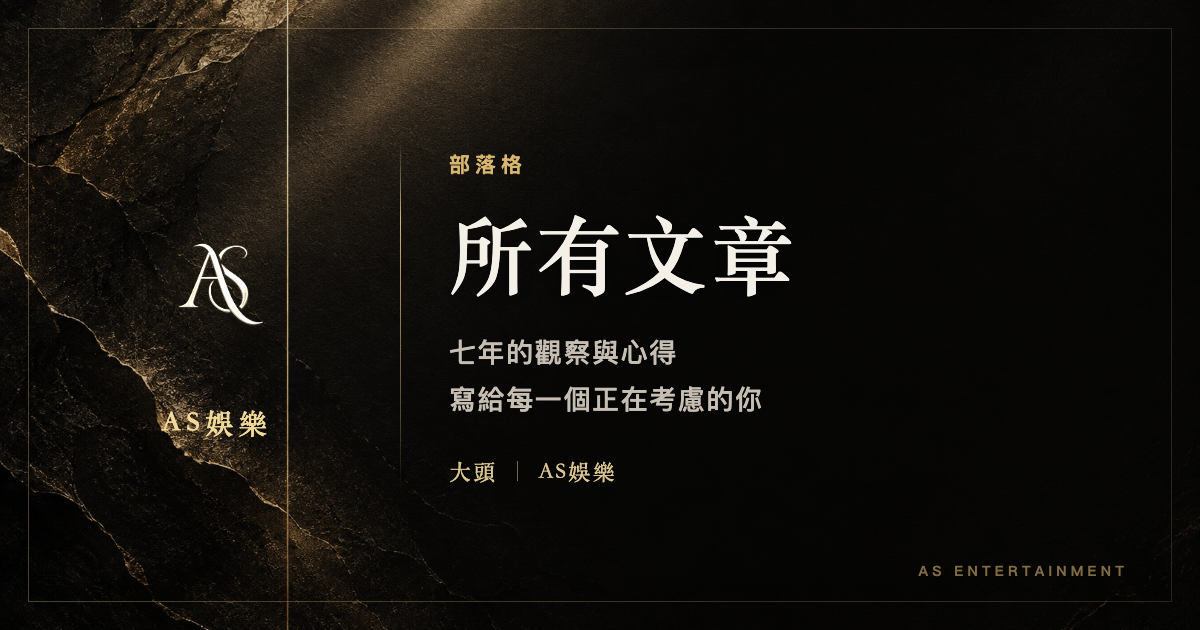
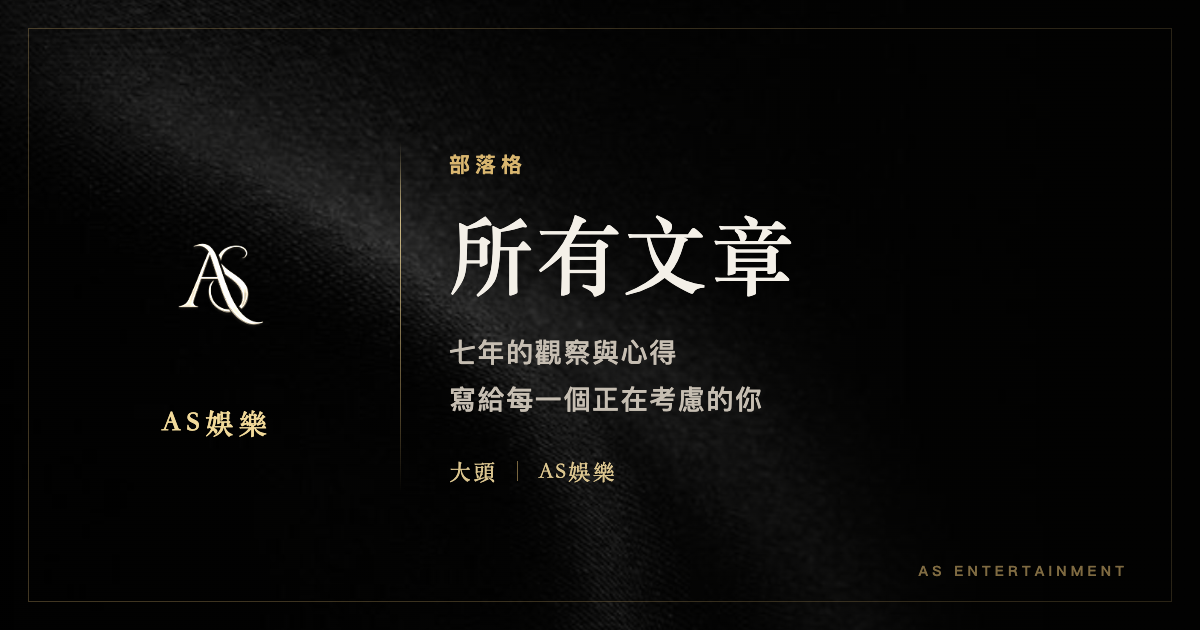
Publish fabric social previews for all pages

diff --git a/tools/time-calculator/index.html b/tools/time-calculator/index.html
@@ -1,0 +1,34 @@
+<!doctype html>
+<html lang="zh-Hant">
+<head>
+  <meta charset="utf-8"><meta name="viewport" content="width=device-width, initial-scale=1"><meta name="theme-color" content="#090909"><title>磁扣時間與薪資試算｜AS娛樂</title>
+  <meta name="description" content="把上下台時間、節數與扣除項目整理清楚，再估算一週大概能拿多少。">
+  <link rel="canonical" href="https://as-ent-tw.com/tools/time-calculator/">
+  <meta property="og:title" content="磁扣時間與薪資試算｜AS娛樂">
+  <meta property="og:description" content="把上下台時間、節數與扣除項目整理清楚，再估算一週大概能拿多少。">
+  <meta property="og:type" content="website">
+  <meta property="og:url" content="https://as-ent-tw.com/tools/time-calculator/">
+  <meta property="og:image" content="https://as-ent-tw.com/assets/og/time-20260912.png?v=20260912-fabric1">
+  <meta property="og:image:width" content="1200">
+  <meta property="og:image:height" content="630">
+  <meta property="og:image:alt" content="AS娛樂 磁扣時間與薪資試算">
+  <meta name="twitter:card" content="summary_large_image">
+  <meta name="twitter:title" content="磁扣時間與薪資試算｜AS娛樂">
+  <meta name="twitter:description" content="把上下台時間、節數與扣除項目整理清楚，再估算一週大概能拿多少。">
+  <meta name="twitter:image" content="https://as-ent-tw.com/assets/og/time-20260912.png?v=20260912-fabric1">
+  <style>
+    :root{--bg:#090909;--panel:#12110f;--line:rgba(211,174,99,.3);--gold:#d9b66c;--cream:#f5eee1;--muted:#9e968b;--green:#45c98a;--red:#df8178}*{box-sizing:border-box}html{background:var(--bg);color:var(--cream);font-family:Arial,"Noto Sans TC",sans-serif}body{margin:0;min-height:100vh;background:radial-gradient(circle at 50% -10%,rgba(201,160,78,.14),transparent 42%),linear-gradient(135deg,#090909,#15120e 55%,#080808);overflow-x:hidden}.wrap{width:min(920px,calc(100% - 32px));margin:auto;padding:26px 0 70px}.top{display:flex;justify-content:space-between;align-items:center;margin-bottom:48px}.brand{display:flex;align-items:center;gap:12px;color:var(--gold);text-decoration:none;font-weight:700;letter-spacing:.12em}.brand img{width:38px;height:38px;object-fit:contain}.back{color:var(--muted);text-decoration:none;font-size:14px}.hero{text-align:center;margin-bottom:32px}.kicker{color:var(--gold);letter-spacing:.25em;font-size:12px;font-weight:700}.hero h1{font-family:Georgia,"Noto Serif TC",serif;font-size:clamp(38px,8vw,68px);line-height:1.1;margin:14px 0 12px;letter-spacing:.08em;background:linear-gradient(120deg,#b98a39,#fff1bd,#c59646);-webkit-background-clip:text;background-clip:text;color:transparent}.hero p{color:var(--muted);line-height:1.8;margin:0}.panel{border:1px solid var(--line);background:rgba(18,17,15,.86);border-radius:10px;padding:30px;box-shadow:0 18px 70px rgba(0,0,0,.24)}.tabs{display:grid;grid-template-columns:1fr 1fr;border-bottom:1px solid rgba(211,174,99,.2);margin:-30px -30px 28px}.tab{padding:18px;border:0;border-bottom:2px solid transparent;background:transparent;color:var(--muted);font:700 15px inherit;cursor:pointer}.tab.active{color:var(--gold);border-color:var(--gold)}.view[hidden]{display:none}.grid{display:grid;grid-template-columns:repeat(2,minmax(0,1fr));gap:18px}.field label{display:block;color:var(--muted);font-size:13px;margin-bottom:7px}.field input{width:100%;border:1px solid rgba(211,174,99,.25);border-radius:5px;background:#0e0d0b;color:var(--cream);padding:13px 14px;font:inherit}.field input:focus{outline:2px solid rgba(211,174,99,.5);outline-offset:1px}.subhead{margin:0 0 14px;font-size:19px}.full{grid-column:1/-1}.checks{display:grid;grid-template-columns:repeat(4,minmax(0,1fr));gap:10px}.check{display:flex;align-items:center;gap:8px;border:1px solid rgba(211,174,99,.18);border-radius:5px;padding:12px;color:var(--muted);font-size:13px}.check input{accent-color:var(--gold)}.button{width:100%;border:1px solid var(--gold);background:linear-gradient(135deg,#d5ae63,#efd28f);color:#171108;border-radius:5px;padding:15px 18px;font:700 16px inherit;cursor:pointer;margin-top:22px}.button.secondary{background:transparent;color:var(--gold);border-color:rgba(211,174,99,.4)}.button:disabled{opacity:.42;cursor:not-allowed}.timer-card{border:1px solid rgba(211,174,99,.2);background:rgba(7,7,6,.42);border-radius:7px;padding:24px;text-align:center}.timer-display{font:600 clamp(38px,10vw,64px)/1 Georgia,serif;letter-spacing:.08em;color:var(--cream)}.timer-status{color:var(--gold);font-size:13px;letter-spacing:.1em;margin-top:8px}.timer-actions{display:grid;grid-template-columns:repeat(3,1fr);gap:10px}.timer-actions .button{margin-top:20px}.uncertain{border:0;background:transparent;color:var(--red);cursor:pointer;font:inherit;font-size:13px;margin-top:18px;padding:8px}.summary{display:grid;grid-template-columns:repeat(3,1fr);gap:10px;margin-top:25px}.metric{border-top:1px solid rgba(211,174,99,.25);padding:16px 4px}.metric span{display:block;color:var(--muted);font-size:12px;margin-bottom:7px}.metric strong{font:600 27px Georgia,"Noto Serif TC",serif;color:var(--gold)}.income{margin-top:25px;border:1px solid rgba(69,201,138,.35);background:linear-gradient(120deg,rgba(69,201,138,.08),rgba(255,255,255,.02));padding:20px;border-radius:7px}.income-row{display:flex;justify-content:space-between;gap:16px;color:var(--muted);padding:7px 0}.income-row strong{color:var(--cream);white-space:nowrap}.income-row.total{border-top:1px solid rgba(69,201,138,.2);margin-top:8px;padding-top:15px;color:var(--green)}.income-row.total strong{font-size:28px;color:#b8f6d2}.note{color:var(--muted);font-size:12px;line-height:1.8;text-align:center;margin:22px 0 0}.line{color:var(--green);text-decoration:none}@media(max-width:650px){.wrap{width:min(100% - 22px,920px);padding-top:18px}.top{margin-bottom:36px}.panel{padding:21px 17px}.tabs{margin:-21px -17px 24px}.grid{grid-template-columns:1fr;gap:15px}.full{grid-column:auto}.checks{grid-template-columns:repeat(2,1fr)}.timer-card{padding:20px 13px}.timer-actions{grid-template-columns:1fr}.timer-actions .button{margin-top:10px}.summary{grid-template-columns:1fr 1fr}.metric:last-child{grid-column:1/-1}.metric strong{font-size:24px}.income-row{align-items:flex-start;font-size:13px}}
+    .timer-actions{grid-template-columns:1fr}.timer-actions .button{min-height:72px;margin-top:10px;font-size:20px}.timer-actions .start{background:linear-gradient(135deg,#d5ae63,#efd28f);border-color:#efd28f;color:#171108}.timer-actions .pause{background:linear-gradient(135deg,#155c3d,#2fa56f);border-color:#45c98a;color:#e6fff0}.timer-actions .end{background:linear-gradient(135deg,#762b2b,#b9514d);border-color:#df8178;color:#fff1ef}.uncertain{border:1px solid rgba(211,174,99,.45);border-radius:5px;color:var(--gold);background:rgba(211,174,99,.08);padding:12px 18px}
+  </style>
+</head>
+<body><main class="wrap"><nav class="top"><a class="brand" href="../../index.html"><img src="../../logo.webp" alt="AS娛樂"><span>AS娛樂</span></a><a class="back" href="../../index.html">回到首頁</a></nav><header class="hero"><div class="kicker">WORK & INCOME</div><h1>磁扣時間與薪資試算</h1><p>把上下台時間、節數與扣除項目整理清楚，再估算一週大概能拿多少。</p></header><section class="panel"><div class="tabs"><button class="tab active" data-tab="time">上下台時間</button><button class="tab" data-tab="income">一週薪資</button></div>
+  <div class="view" id="time"><h2 class="subhead">今天上班多久？</h2><div class="timer-card"><div class="timer-display" id="timerDisplay">00:00:00</div><div class="timer-status" id="timerStatus">尚未開始</div><div class="timer-actions"><button class="button start" id="startTimer">上台</button><button class="button pause" id="pauseTimer" disabled>下台</button><button class="button end" id="endTimer" disabled>結束計時</button></div><button class="uncertain" id="uncertainTimer">不確定今天的時間</button></div><div class="summary" id="timeResult"><div class="metric"><span>累計工作時間</span><strong>0 分鐘</strong></div><div class="metric"><span>約幾節</span><strong>0 節</strong></div><div class="metric"><span>計算方式</span><strong>10 分鐘／節</strong></div></div><p class="note" id="timerNote">按下「上台」開始，按「下台」暫停，最後按「結束計時」。</p></div>
+  <div class="view" id="income" hidden><h2 class="subhead">一週大概實拿多少？</h2><div class="grid week-grid"><div class="field"><label for="mon">週一節數</label><input class="day-sections" id="mon" type="number" min="0" value="0"></div><div class="field"><label for="tue">週二節數</label><input class="day-sections" id="tue" type="number" min="0" value="0"></div><div class="field"><label for="wed">週三節數</label><input class="day-sections" id="wed" type="number" min="0" value="0"></div><div class="field"><label for="thu">週四節數</label><input class="day-sections" id="thu" type="number" min="0" value="0"></div><div class="field"><label for="fri">週五節數</label><input class="day-sections" id="fri" type="number" min="0" value="0"></div><div class="field"><label for="sat">週六節數</label><input class="day-sections" id="sat" type="number" min="0" value="0"></div><div class="field"><label for="sun">週日節數</label><input class="day-sections" id="sun" type="number" min="0" value="48"></div><div class="field"><label for="rate">每節薪資（自己填）</label><input id="rate" type="number" min="0" value="250"></div><div class="field"><label for="cleaning">清潔費</label><input id="cleaning" type="number" min="0" value="0"></div><div class="field"><label for="tax">稅金</label><input id="tax" type="number" min="0" value="0"></div><div class="field"><label for="other">其他費用（髮妝、櫃子等）</label><input id="other" type="number" min="0" value="0"></div></div><button class="button" id="calcIncome">試算一週收入</button><div class="income" id="incomeResult"><div class="income-row"><span>一週總節數</span><strong>48 節</strong></div><div class="income-row"><span>原始收入</span><strong>12,000 元</strong></div><div class="income-row"><span>預估扣除</span><strong>0 元</strong></div><div class="income-row total"><span>預估實拿</span><strong>12,000 元</strong></div></div></div><p class="note">這是自行輸入的估算工具，實際薪資依店家、班別與當週狀況為準。想確認適合自己的安排，可以直接<a class="line" href="../../contact.html">來問我</a>。</p></section></main>
+  <script>
+    const $=id=>document.getElementById(id), money=n=>Math.round(n).toLocaleString('zh-TW');
+    function selectTab(name){const target=name==='income'?'income':'time';document.querySelectorAll('.tab').forEach(tab=>tab.classList.toggle('active',tab.dataset.tab===target));document.querySelectorAll('.view').forEach(view=>view.hidden=view.id!==target)}
+    document.querySelectorAll('.tab').forEach(tab=>tab.onclick=()=>selectTab(tab.dataset.tab));selectTab(new URLSearchParams(location.search).get('view'));
+    function minutes(v){const [h,m]=v.split(':').map(Number);return h*60+m}
+    let timer=null,startedAt=0,elapsed=0,running=false,uncertain=false,finished=false;const timerKey='as-time-calculator';function saveTimer(){localStorage.setItem(timerKey,JSON.stringify({startedAt,elapsed,running,uncertain,finished,savedAt:Date.now()}))}function loadTimer(){try{const saved=JSON.parse(localStorage.getItem(timerKey)||'null');if(!saved)return;startedAt=saved.startedAt||0;elapsed=saved.elapsed||0;running=!!saved.running;uncertain=!!saved.uncertain;finished=!!saved.finished;if(running){$('timerStatus').textContent='計時中';$('startTimer').textContent='上台';$('pauseTimer').disabled=false;$('endTimer').disabled=false;timer=setInterval(drawTimer,1000)}else if(finished){$('timerStatus').textContent=uncertain?'時間不確定':'已結束計時';$('startTimer').disabled=true;$('pauseTimer').disabled=true;$('endTimer').disabled=true}else if(elapsed){$('timerStatus').textContent='已下台，可繼續計時';$('startTimer').textContent='上台';$('pauseTimer').disabled=false;$('endTimer').disabled=false}}catch(e){localStorage.removeItem(timerKey)}}function drawTimer(){const total=Math.floor((elapsed+(running?Date.now()-startedAt:0))/1000),h=String(Math.floor(total/3600)).padStart(2,'0'),m=String(Math.floor(total%3600/60)).padStart(2,'0'),s=String(total%60).padStart(2,'0');$('timerDisplay').textContent=`${h}:${m}:${s}`;const mins=Math.floor(total/60);$('timeResult').innerHTML=`<div class="metric"><span>累計工作時間</span><strong>${mins} 分鐘</strong></div><div class="metric"><span>約幾節</span><strong>${Math.floor(mins/10)} 節</strong></div><div class="metric"><span>計算方式</span><strong>10 分鐘／節</strong></div>`}function stopTimer(){if(running){elapsed+=Date.now()-startedAt;running=false}clearInterval(timer);timer=null;saveTimer();drawTimer()}$('startTimer').onclick=()=>{if(!running&&!finished){startedAt=Date.now();running=true;uncertain=false;$('timerStatus').textContent='計時中';$('startTimer').textContent='上台';$('pauseTimer').disabled=false;$('endTimer').disabled=false;timer=setInterval(drawTimer,1000);saveTimer();drawTimer()}};$('pauseTimer').onclick=()=>{stopTimer();$('timerStatus').textContent='已下台，可繼續計時'};$('endTimer').onclick=()=>{stopTimer();finished=true;$('timerStatus').textContent='已結束計時';$('startTimer').disabled=true;$('pauseTimer').disabled=true;$('endTimer').disabled=true;$('timerNote').textContent='已完成本次記錄，10 分鐘算 1 節。';saveTimer()};$('uncertainTimer').onclick=()=>{stopTimer();uncertain=true;finished=true;$('timerStatus').textContent='時間不確定';$('timerNote').textContent='如果不確定，先記下來，之後可以直接來問我確認。';$('startTimer').disabled=true;$('pauseTimer').disabled=true;$('endTimer').disabled=true;saveTimer()};loadTimer();drawTimer();
+    $('calcIncome').onclick=()=>{const sections=[...document.querySelectorAll('.day-sections')].reduce((sum,input)=>sum+Math.max(0,Number(input.value)||0),0),rate=Math.max(0,Number($('rate').value)||0),clean=Math.max(0,Number($('cleaning').value)||0),tax=Math.max(0,Number($('tax').value)||0),other=Math.max(0,Number($('other').value)||0),gross=sections*rate,totalDeduction=tax+clean+other,net=gross-totalDeduction;$('incomeResult').innerHTML=`<div class="income-row"><span>一週總節數</span><strong>${sections} 節</strong></div><div class="income-row"><span>原始收入（${sections} 節 × ${money(rate)} 元）</span><strong>${money(gross)} 元</strong></div><div class="income-row"><span>預估扣除</span><strong>− ${money(totalDeduction)} 元</strong></div><div class="income-row total"><span>預估實拿</span><strong>${money(net)} 元</strong></div>`};
+  </script></body></html>

diff --git a/tools/alias-generator/index.html b/tools/alias-generator/index.html
@@ -1,0 +1,48 @@
+<!doctype html>
+<html lang="zh-Hant">
+<head>
+  <meta charset="utf-8">
+  <meta name="viewport" content="width=device-width, initial-scale=1">
+  <meta name="theme-color" content="#090909">
+  <title>藝名神器｜AS娛樂</title>
+  <meta name="description" content="選幾個符合妳的標籤，讓名字先替妳說出第一印象。">
+  <link rel="canonical" href="https://as-ent-tw.com/tools/alias-generator/">
+  <meta property="og:title" content="藝名神器｜AS娛樂">
+  <meta property="og:description" content="選幾個符合妳的標籤，讓名字先替妳說出第一印象。">
+  <meta property="og:type" content="website">
+  <meta property="og:url" content="https://as-ent-tw.com/tools/alias-generator/">
+  <meta property="og:image" content="https://as-ent-tw.com/assets/og/alias-20260912.png?v=20260912-fabric1">
+  <meta property="og:image:width" content="1200">
+  <meta property="og:image:height" content="630">
+  <meta property="og:image:alt" content="AS娛樂 藝名神器">
+  <meta name="twitter:card" content="summary_large_image">
+  <meta name="twitter:title" content="藝名神器｜AS娛樂">
+  <meta name="twitter:description" content="選幾個符合妳的標籤，讓名字先替妳說出第一印象。">
+  <meta name="twitter:image" content="https://as-ent-tw.com/assets/og/alias-20260912.png?v=20260912-fabric1">
+  <style>
+    :root{--bg:#090909;--panel:#12110f;--panel2:#181613;--line:rgba(211,174,99,.3);--gold:#d9b66c;--cream:#f5eee1;--muted:#9e968b;--green:#45c98a}
+    *{box-sizing:border-box}html{background:var(--bg);color:var(--cream);font-family:Arial,"Noto Sans TC",sans-serif}body{margin:0;min-height:100vh;background:radial-gradient(circle at 50% -10%,rgba(201,160,78,.14),transparent 42%),linear-gradient(135deg,#090909,#15120e 55%,#080808);overflow-x:hidden}.wrap{width:min(820px,calc(100% - 32px));margin:auto;padding:26px 0 70px}.top{display:flex;justify-content:space-between;align-items:center;margin-bottom:48px}.brand{display:flex;align-items:center;gap:12px;color:var(--gold);text-decoration:none;font-weight:700;letter-spacing:.12em}.brand img{width:38px;height:38px;object-fit:contain}.back{color:var(--muted);text-decoration:none;font-size:14px}.back:hover{color:var(--gold)}.hero{text-align:center;margin-bottom:32px}.kicker{color:var(--gold);letter-spacing:.28em;font-size:12px;font-weight:700}.hero h1{font-family:Georgia,"Noto Serif TC",serif;font-size:clamp(42px,9vw,76px);line-height:1.08;margin:14px 0 12px;letter-spacing:.08em;background:linear-gradient(120deg,#b98a39,#fff1bd,#c59646);-webkit-background-clip:text;background-clip:text;color:transparent}.hero p{color:var(--muted);margin:0;line-height:1.8}.panel{border:1px solid var(--line);background:rgba(18,17,15,.82);border-radius:10px;padding:30px;box-shadow:0 18px 70px rgba(0,0,0,.24)}.section{padding:4px 0 28px;border-bottom:1px solid rgba(211,174,99,.14);margin-bottom:26px}.section:last-of-type{border-bottom:0;margin-bottom:0;padding-bottom:0}.section-head{display:flex;align-items:baseline;gap:10px;margin-bottom:16px}.section-number{color:var(--gold);font-size:12px;letter-spacing:.18em}.section h2{font-size:20px;margin:0}.hint{color:var(--muted);font-size:13px}.chips{display:flex;flex-wrap:wrap;gap:10px}.chip{border:1px solid rgba(211,174,99,.25);background:#171614;color:#c9c0b3;border-radius:999px;padding:11px 18px;font:inherit;cursor:pointer;transition:.2s}.chip:hover,.chip.selected{border-color:var(--gold);color:#1b1408;background:var(--gold);box-shadow:0 5px 18px rgba(211,174,99,.12)}.actions{display:flex;gap:12px;margin-top:30px}.button{flex:1;border:1px solid var(--gold);background:linear-gradient(135deg,#d5ae63,#efd28f);color:#171108;border-radius:5px;padding:15px 18px;font:700 16px inherit;cursor:pointer}.button.secondary{background:transparent;color:var(--gold);border-color:rgba(211,174,99,.4)}.results{margin-top:28px;display:grid;gap:10px}.result{display:flex;align-items:center;justify-content:space-between;border:1px solid rgba(211,174,99,.22);background:linear-gradient(110deg,rgba(211,174,99,.08),rgba(255,255,255,.02));padding:17px 18px;border-radius:7px}.result strong{font:600 24px Georgia,"Noto Serif TC",serif;color:var(--cream);letter-spacing:.12em}.copy{background:transparent;color:var(--gold);border:0;cursor:pointer;font-size:13px}.notice{color:var(--muted);font-size:12px;text-align:center;margin:22px 0 0}.line{color:var(--green);text-decoration:none}.toast{position:fixed;left:50%;bottom:22px;transform:translate(-50%,20px);opacity:0;background:#1d3027;color:#d7ffeb;border:1px solid rgba(69,201,138,.5);padding:10px 15px;border-radius:6px;transition:.2s}.toast.show{opacity:1;transform:translate(-50%,0)}@media(max-width:560px){.wrap{width:min(100% - 22px,820px);padding-top:18px}.top{margin-bottom:36px}.panel{padding:21px 17px}.actions{flex-direction:column}.chip{padding:10px 14px}.result strong{font-size:21px}}
+    .result{justify-content:center}.result-controls{display:grid;grid-template-columns:1fr 1fr;gap:10px;margin-top:10px}.result-controls .button{margin:0}.toast{display:none}@media(max-width:560px){.result-controls{grid-template-columns:1fr}}
+  </style>
+</head>
+<body>
+  <main class="wrap">
+    <nav class="top"><a class="brand" href="../../index.html"><img src="../../logo.webp" alt="AS娛樂"><span>AS娛樂</span></a><a class="back" href="../../index.html">回到首頁</a></nav>
+    <header class="hero"><div class="kicker">FIND YOUR NAME</div><h1>藝名神器</h1><p>選幾個符合妳的標籤，讓名字先替妳說出第一印象。</p></header>
+    <section class="panel">
+      <div class="section"><div class="section-head"><span class="section-number">01</span><h2>字數與格式</h2><span class="hint">可選可不選</span></div><div class="chips" data-group="length"><button class="chip" data-value="two">雙字名</button><button class="chip" data-value="all">都可以</button></div></div>
+      <div class="section"><div class="section-head"><span class="section-number">02</span><h2>風格與派系</h2><span class="hint">可選可不選</span></div><div class="chips" data-group="style"><button class="chip" data-value="korean">韓系</button><button class="chip" data-value="japanese">日系</button><button class="chip" data-value="classic">中式古風</button><button class="chip" data-value="western">洋氣英文</button><button class="chip" data-value="elegant-style">優雅氣質</button><button class="chip" data-value="cool-style">冷艷俐落</button><button class="chip" data-value="sweet-style">甜美可愛</button><button class="chip" data-value="all">都可以</button></div></div>
+      <div class="section"><div class="section-head"><span class="section-number">03</span><h2>人設與氣質</h2><span class="hint">可選可不選</span></div><div class="chips" data-group="mood"><button class="chip" data-value="elegant">御姐</button><button class="chip" data-value="neighbor">鄰家女孩</button><button class="chip" data-value="rich">千金大小姐</button><button class="chip" data-value="pure">純欲系</button><button class="chip" data-value="cool">高冷女王</button><button class="chip" data-value="sweet">甜美</button><button class="chip" data-value="mysterious">神秘感</button><button class="chip" data-value="independent">獨立大方</button><button class="chip" data-value="gentle">溫柔知性</button><button class="chip" data-value="playful">靈動俏皮</button><button class="chip" data-value="all">都可以</button></div></div>
+      <div class="actions"><button class="button" id="generate">生成我的藝名</button></div>
+      <div class="results" id="results" hidden></div><p class="notice">名字只是開始，想知道哪種工作適合妳，可以直接<a class="line" href="../../contact.html">來問我</a>。</p>
+    </section>
+  </main><div class="toast" id="toast">已複製</div>
+  <script>
+    const data={two:['恩妍','妍恩','若晴','沐妍','語希','安妮','宛庭','心妤','芷晴','語柔','沐恩','采薇','知妍','晚晴','若棠','知微'],korean:['恩妍','妍希','語恩','知妍','瑞妍','恩彩','宥真','恩娜','智妍','彩恩'],japanese:['凜花','千夏','美月','優奈','結衣','葵','琴音','莉央','花音','真希'],classic:['若棠','知微','晚晴','清妤','昭寧','芷蘭','靜姝','若蘭','知秋','月棠'],western:['Annie','Mia','Nina','Luna','Chloe','Ivy','Stella','Ava','Ella','Sophie','Bella','Grace'],elegant:['若棠','知妍','晚晴','靜姝','芷蘭','清妤','月棠'],neighbor:['安安','妍妍','語希','柔柔','恩恩','采薇','晴晴'],rich:['宛庭','心妤','沐恩','采薇','知妍','若棠'],pure:['恩妍','語安','若晴','妍希','晚晴','語柔'],cool:['凜花','知微','沐妍','昭寧','芷晴','靜姝'],sweet:['晴晴','妮妮','妍希','語柔','糖糖','安安'],mysterious:['知微','凜花','晚晴','靜姝','若棠','月棠'],independent:['采薇','知秋','若棠','芷晴','語安'],gentle:['語柔','心妤','恩妍','晚晴','知妍'],playful:['晴晴','妮妮','安安','妍妍','花音'],'elegant-style':['若棠','知妍','晚晴','靜姝','芷蘭','清妤'],'cool-style':['凜花','知微','昭寧','靜姝','芷晴'],'sweet-style':['晴晴','妮妮','妍希','語柔','安安']};
+    const state={};document.querySelectorAll('.chips').forEach(group=>group.addEventListener('click',e=>{const b=e.target.closest('.chip');if(!b)return;group.querySelectorAll('.chip').forEach(x=>x.classList.remove('selected'));b.classList.add('selected');state[group.dataset.group]=b.dataset.value}));
+    function pick(){if(state.style==='western')return [...data.western].sort(()=>Math.random()-.5).slice(0,8);let pool=[];Object.values(state).forEach(v=>{if(data[v]&&v!=='all')pool.push(...data[v])});if(!pool.length)pool=[...data.two,...data.korean,...data.japanese,...data.classic];return [...new Set(pool)].sort(()=>Math.random()-.5).slice(0,8)}
+    function reset(){document.querySelectorAll('.chip').forEach(x=>x.classList.remove('selected'));Object.keys(state).forEach(x=>delete state[x]);const box=document.getElementById('results');box.innerHTML='';box.hidden=true}
+    document.getElementById('generate').onclick=()=>{const box=document.getElementById('results');box.hidden=false;box.innerHTML=pick().map(x=>`<div class="result"><strong>${x}</strong></div>`).join('')+'<div class="result-controls"><button class="button" id="more">查看更多</button><button class="button secondary" id="bottomReset">重新選擇</button></div>';box.scrollIntoView({behavior:'smooth',block:'nearest'})};
+    document.getElementById('results').onclick=e=>{if(e.target.id==='more'){const box=document.getElementById('results');box.innerHTML=pick().map(x=>`<div class="result"><strong>${x}</strong></div>`).join('')+'<div class="result-controls"><button class="button" id="more">查看更多</button><button class="button secondary" id="bottomReset">重新選擇</button></div>'}if(e.target.id==='bottomReset')reset()};
+  </script>
+</body></html>

diff --git a/post.html b/post.html
@@ -16,14 +16,14 @@
   <meta property="og:description" content="酒店公關入行知識、薪資、面試流程與工作建議。"/>
   <meta property="og:type" content="article"/>
   <meta property="og:url" content="https://as-ent-tw.com/post"/>
-  <meta property="og:image" content="https://as-ent-tw.com/assets/og/blog-20260912.png?v=20260912"/>
+  <meta property="og:image" content="https://as-ent-tw.com/assets/og/blog-20260912.png?v=20260912-fabric1"/>
   <meta property="og:image:width" content="1200"/>
   <meta property="og:image:height" content="630"/>
   <meta property="og:image:alt" content="AS娛樂 八大知識文章"/>
   <meta name="twitter:card" content="summary_large_image"/>
   <meta name="twitter:title" content="酒店公關文章｜AS娛樂 大頭"/>
   <meta name="twitter:description" content="酒店公關入行知識、薪資、面試流程與工作建議。"/>
-  <meta name="twitter:image" content="https://as-ent-tw.com/assets/og/blog-20260912.png?v=20260912"/>
+  <meta name="twitter:image" content="https://as-ent-tw.com/assets/og/blog-20260912.png?v=20260912-fabric1"/>
   <link rel="alternate" hreflang="zh-TW" href="https://as-ent-tw.com/post"/>
   <link rel="alternate" hreflang="x-default" href="https://as-ent-tw.com/post"/>
   <link rel="preconnect" href="https://fonts.googleapis.com"/>
@@ -544,9 +544,9 @@
     if (element) element.setAttribute('content', content);
   }
   function absoluteAssetUrl(url) {
-    if (!url) return 'https://as-ent-tw.com/assets/og/blog-20260912.png?v=20260912';
+    if (!url) return 'https://as-ent-tw.com/assets/og/blog-20260912.png?v=20260912-fabric1';
     try { return new URL(url, 'https://as-ent-tw.com/').href; }
-    catch { return 'https://as-ent-tw.com/assets/og/blog-20260912.png?v=20260912'; }
+    catch { return 'https://as-ent-tw.com/assets/og/blog-20260912.png?v=20260912-fabric1'; }
   }
   function getPostUrl(slug, absolute = false) {
     const path = `/post/${encodeURIComponent(String(slug))}`;

diff --git a/blog.html b/blog.html
@@ -16,14 +16,14 @@
   <meta property="og:description" content="AS娛樂大頭的部落格，分享酒店公關入行、面試、薪資、排班與隱私安全等真實經驗，幫助想增加收入的女生先了解工作再做決定。"/>
   <meta property="og:type" content="website"/>
   <meta property="og:url" content="https://as-ent-tw.com/blog"/>
-  <meta property="og:image" content="https://as-ent-tw.com/assets/og/blog-20260912.png?v=20260912"/>
+  <meta property="og:image" content="https://as-ent-tw.com/assets/og/blog-20260912.png?v=20260912-fabric1"/>
   <meta property="og:image:width" content="1200"/>
   <meta property="og:image:height" content="630"/>
   <meta property="og:image:alt" content="AS娛樂 八大知識與部落格文章"/>
   <meta name="twitter:card" content="summary_large_image"/>
   <meta name="twitter:title" content="酒店公關部落格｜AS娛樂 大頭"/>
   <meta name="twitter:description" content="AS娛樂大頭的部落格，分享酒店公關入行、面試、薪資、排班與隱私安全等真實經驗，幫助想增加收入的女生先了解工作再做決定。"/>
-  <meta name="twitter:image" content="https://as-ent-tw.com/assets/og/blog-20260912.png?v=20260912"/>
+  <meta name="twitter:image" content="https://as-ent-tw.com/assets/og/blog-20260912.png?v=20260912-fabric1"/>
   <link rel="preconnect" href="https://fonts.googleapis.com"/>
   <link rel="preconnect" href="https://fonts.gstatic.com" crossorigin/>
   <link href="https://fonts.googleapis.com/css2?family=Noto+Sans+TC:wght@400;700;900&family=Noto+Serif+TC:wght@400;500;700&display=swap" rel="stylesheet"/>

diff --git a/privacy.html b/privacy.html
@@ -8,6 +8,18 @@
   <title>隱私權政策｜AS娛樂</title>
   <meta name="description" content="AS娛樂網站隱私權政策，說明網站資料蒐集、使用方式、第三方服務與聯絡管道。" />
   <link rel="canonical" href="https://as-ent-tw.com/privacy" />
+  <meta property="og:title" content="隱私權政策｜AS娛樂" />
+  <meta property="og:description" content="AS娛樂網站隱私權政策，說明網站資料蒐集、使用方式、第三方服務與聯絡管道。" />
+  <meta property="og:type" content="website" />
+  <meta property="og:url" content="https://as-ent-tw.com/privacy" />
+  <meta property="og:image" content="https://as-ent-tw.com/assets/og/privacy-20260912.png?v=20260912-fabric1" />
+  <meta property="og:image:width" content="1200" />
+  <meta property="og:image:height" content="630" />
+  <meta property="og:image:alt" content="AS娛樂 隱私權政策" />
+  <meta name="twitter:card" content="summary_large_image" />
+  <meta name="twitter:title" content="隱私權政策｜AS娛樂" />
+  <meta name="twitter:description" content="AS娛樂網站隱私權政策，說明網站資料蒐集、使用方式、第三方服務與聯絡管道。" />
+  <meta name="twitter:image" content="https://as-ent-tw.com/assets/og/privacy-20260912.png?v=20260912-fabric1" />
   <link rel="icon" href="/logo.webp?v=20260604-logo2" type="image/webp" />
   <link rel="preconnect" href="https://fonts.googleapis.com" />
   <link rel="preconnect" href="https://fonts.gstatic.com" crossorigin />

diff --git a/work-landing.html b/work-landing.html
@@ -11,7 +11,15 @@
   <meta property="og:title" content="先詢問再決定｜酒店公關・美容師職缺" />
   <meta property="og:description" content="兩種工作方向先了解。不簽約、不壓薪水，問清楚再決定。" />
   <meta property="og:type" content="website" />
-  <meta property="og:image" content="https://as-ent-tw.com/beauty_exports/beauty_ad_4x5_1080x1350_full.png" />
+  <meta property="og:url" content="https://as-ent-tw.com/work-landing" />
+  <meta property="og:image" content="https://as-ent-tw.com/assets/og/work-20260912.png?v=20260912-fabric1" />
+  <meta property="og:image:width" content="1200" />
+  <meta property="og:image:height" content="630" />
+  <meta property="og:image:alt" content="AS娛樂 酒店公關與紓壓按摩美容師職缺" />
+  <meta name="twitter:card" content="summary_large_image" />
+  <meta name="twitter:title" content="先詢問再決定｜酒店公關・美容師職缺" />
+  <meta name="twitter:description" content="兩種工作方向先了解。不簽約、不壓薪水，問清楚再決定。" />
+  <meta name="twitter:image" content="https://as-ent-tw.com/assets/og/work-20260912.png?v=20260912-fabric1" />
   <link rel="preconnect" href="https://fonts.googleapis.com" />
   <link rel="preconnect" href="https://fonts.gstatic.com" crossorigin />
   <link href="https://fonts.googleapis.com/css2?family=Noto+Sans+TC:wght@400;500;700;900&family=Noto+Serif+TC:wght@500;700;900&display=swap" rel="stylesheet" />

diff --git a/brand-old/index.html b/brand-old/index.html
@@ -13,14 +13,14 @@
   <meta property="og:description" content="無經驗可、彈性兼職、自由排班。想先了解薪資、內容與安全，可以直接加 LINE 詢問。" />
   <meta property="og:type" content="website" />
   <meta property="og:url" content="https://as-ent-tw.com/brand-old/" />
-  <meta property="og:image" content="https://as-ent-tw.com/assets/og/home-20260912.png?v=20260912" />
+  <meta property="og:image" content="https://as-ent-tw.com/assets/og/work-20260912.png?v=20260912-fabric1" />
   <meta property="og:image:width" content="1200" />
   <meta property="og:image:height" content="630" />
   <meta property="og:image:alt" content="AS娛樂｜美容師工作詢問" />
   <meta name="twitter:card" content="summary_large_image" />
   <meta name="twitter:title" content="AS娛樂｜美容師工作詢問" />
   <meta name="twitter:description" content="無經驗可、彈性兼職、自由排班。想先了解薪資、內容與安全，可以直接加 LINE 詢問。" />
-  <meta name="twitter:image" content="https://as-ent-tw.com/assets/og/home-20260912.png?v=20260912" />
+  <meta name="twitter:image" content="https://as-ent-tw.com/assets/og/work-20260912.png?v=20260912-fabric1" />
   <link rel="alternate" hreflang="zh-TW" href="https://as-ent-tw.com/brand-old/" />
   <link rel="alternate" hreflang="x-default" href="https://as-ent-tw.com/brand-old/" />
   <link rel="icon" href="../logo.webp?v=20260604-logo2" type="image/webp" />

diff --git a/disclaimer.html b/disclaimer.html
@@ -8,6 +8,18 @@
   <title>網站聲明｜AS娛樂</title>
   <meta name="description" content="AS娛樂網站使用聲明、薪資試算聲明、年齡限制與外部連結說明。" />
   <link rel="canonical" href="https://as-ent-tw.com/disclaimer" />
+  <meta property="og:title" content="網站聲明｜AS娛樂" />
+  <meta property="og:description" content="AS娛樂網站使用聲明、薪資試算聲明、年齡限制與外部連結說明。" />
+  <meta property="og:type" content="website" />
+  <meta property="og:url" content="https://as-ent-tw.com/disclaimer" />
+  <meta property="og:image" content="https://as-ent-tw.com/assets/og/disclaimer-20260912.png?v=20260912-fabric1" />
+  <meta property="og:image:width" content="1200" />
+  <meta property="og:image:height" content="630" />
+  <meta property="og:image:alt" content="AS娛樂 網站聲明" />
+  <meta name="twitter:card" content="summary_large_image" />
+  <meta name="twitter:title" content="網站聲明｜AS娛樂" />
+  <meta name="twitter:description" content="AS娛樂網站使用聲明、薪資試算聲明、年齡限制與外部連結說明。" />
+  <meta name="twitter:image" content="https://as-ent-tw.com/assets/og/disclaimer-20260912.png?v=20260912-fabric1" />
   <link rel="icon" href="/logo.webp?v=20260604-logo2" type="image/webp" />
   <link rel="preconnect" href="https://fonts.googleapis.com" />
   <link rel="preconnect" href="https://fonts.gstatic.com" crossorigin />

diff --git a/index.html b/index.html
@@ -15,14 +15,14 @@
   <meta property="og:description" content="先把資訊與擔心的事了解清楚，再決定下一步要不要聊。"/>
   <meta property="og:type" content="website"/>
   <meta property="og:url" content="https://as-ent-tw.com/"/>
-  <meta property="og:image" content="https://as-ent-tw.com/assets/og/home-20260912.png?v=20260912"/>
+  <meta property="og:image" content="https://as-ent-tw.com/assets/og/home-20260912.png?v=20260912-fabric1"/>
   <meta property="og:image:width" content="1200"/>
   <meta property="og:image:height" content="630"/>
   <meta property="og:image:alt" content="AS娛樂 大頭 八大最誠實經紀人 不要讓未來的你討厭現在的自己"/>
   <meta name="twitter:card" content="summary_large_image"/>
   <meta name="twitter:title" content="AS娛樂｜大頭・八大最誠實經紀人"/>
   <meta name="twitter:description" content="先把資訊與擔心的事了解清楚，再決定下一步要不要聊。"/>
-  <meta name="twitter:image" content="https://as-ent-tw.com/assets/og/home-20260912.png?v=20260912"/>
+  <meta name="twitter:image" content="https://as-ent-tw.com/assets/og/home-20260912.png?v=20260912-fabric1"/>
   <link rel="alternate" hreflang="zh-TW" href="https://as-ent-tw.com/"/>
   <link rel="alternate" hreflang="x-default" href="https://as-ent-tw.com/"/>
   <link rel="preconnect" href="https://fonts.googleapis.com"/>

diff --git a/highlights/index.html b/highlights/index.html
@@ -11,14 +11,14 @@
   <meta property="og:description" content="AS娛樂公關真實心得與精選紀錄，整理匿名對話、薪資回饋與實際工作經驗，讓想了解酒店公關工作的人先看真實分享。">
   <meta property="og:type" content="website">
   <meta property="og:url" content="https://as-ent-tw.com/highlights/">
-  <meta property="og:image" content="https://as-ent-tw.com/assets/og/home-20260912.png?v=20260912">
+  <meta property="og:image" content="https://as-ent-tw.com/assets/og/highlights-20260912.png?v=20260912-fabric1">
   <meta property="og:image:width" content="1200">
   <meta property="og:image:height" content="630">
   <meta property="og:image:alt" content="AS娛樂公關真實心得與精選紀錄">
   <meta name="twitter:card" content="summary_large_image">
   <meta name="twitter:title" content="公關真實心得｜AS娛樂">
   <meta name="twitter:description" content="AS娛樂公關真實心得與精選紀錄，整理匿名對話、薪資回饋與實際工作經驗，讓想了解酒店公關工作的人先看真實分享。">
-  <meta name="twitter:image" content="https://as-ent-tw.com/assets/og/home-20260912.png?v=20260912">
+  <meta name="twitter:image" content="https://as-ent-tw.com/assets/og/highlights-20260912.png?v=20260912-fabric1">
   <script type="application/ld+json">
     {
       "@context": "https://schema.org",

diff --git a/landing-b/index.html b/landing-b/index.html
@@ -12,14 +12,14 @@
   <meta property="og:description" content="免費匿名了解酒店工作收入 工作內容 適合度與常見問題 三分鐘先把資訊看清楚 再決定是否進一步聯絡" />
   <meta property="og:type" content="website" />
   <meta property="og:url" content="https://as-ent-tw.com/landing-b/" />
-  <meta property="og:image" content="https://as-ent-tw.com/assets/og/home-20260912.png?v=20260912" />
+  <meta property="og:image" content="https://as-ent-tw.com/assets/og/landing-20260912.png?v=20260912-fabric1" />
   <meta property="og:image:width" content="1200" />
   <meta property="og:image:height" content="630" />
   <meta property="og:image:alt" content="AS 娛樂收入試算與常見問題" />
   <meta name="twitter:card" content="summary_large_image" />
   <meta name="twitter:title" content="酒店工作收入試算與常見問題｜AS 娛樂" />
   <meta name="twitter:description" content="免費匿名了解酒店工作收入、工作內容、適合度與常見問題，先把資訊看清楚再決定。" />
-  <meta name="twitter:image" content="https://as-ent-tw.com/assets/og/home-20260912.png?v=20260912" />
+  <meta name="twitter:image" content="https://as-ent-tw.com/assets/og/landing-20260912.png?v=20260912-fabric1" />
   <script type="application/ld+json">
     {
       "@context": "https://schema.org",

diff --git a/brand/index.html b/brand/index.html
@@ -14,14 +14,14 @@
   <meta property="og:description" content="有任何想先了解的事，都可以先匿名提問。AS娛樂大頭本人親自回覆。" />
   <meta property="og:type" content="website" />
   <meta property="og:url" content="https://as-ent-tw.com/contact" />
-  <meta property="og:image" content="https://as-ent-tw.com/assets/og/home-20260912.png?v=20260912" />
+  <meta property="og:image" content="https://as-ent-tw.com/assets/og/contact-20260912.png?v=20260912-fabric1" />
   <meta property="og:image:width" content="1200" />
   <meta property="og:image:height" content="630" />
   <meta property="og:image:alt" content="AS娛樂｜聯絡我" />
   <meta name="twitter:card" content="summary_large_image" />
   <meta name="twitter:title" content="AS娛樂｜聯絡我" />
   <meta name="twitter:description" content="有任何想先了解的事，都可以先匿名提問。AS娛樂大頭本人親自回覆。" />
-  <meta name="twitter:image" content="https://as-ent-tw.com/assets/og/home-20260912.png?v=20260912" />
+  <meta name="twitter:image" content="https://as-ent-tw.com/assets/og/contact-20260912.png?v=20260912-fabric1" />
   <link rel="alternate" hreflang="zh-TW" href="https://as-ent-tw.com/contact" />
   <link rel="alternate" hreflang="x-default" href="https://as-ent-tw.com/contact" />
   <script>
